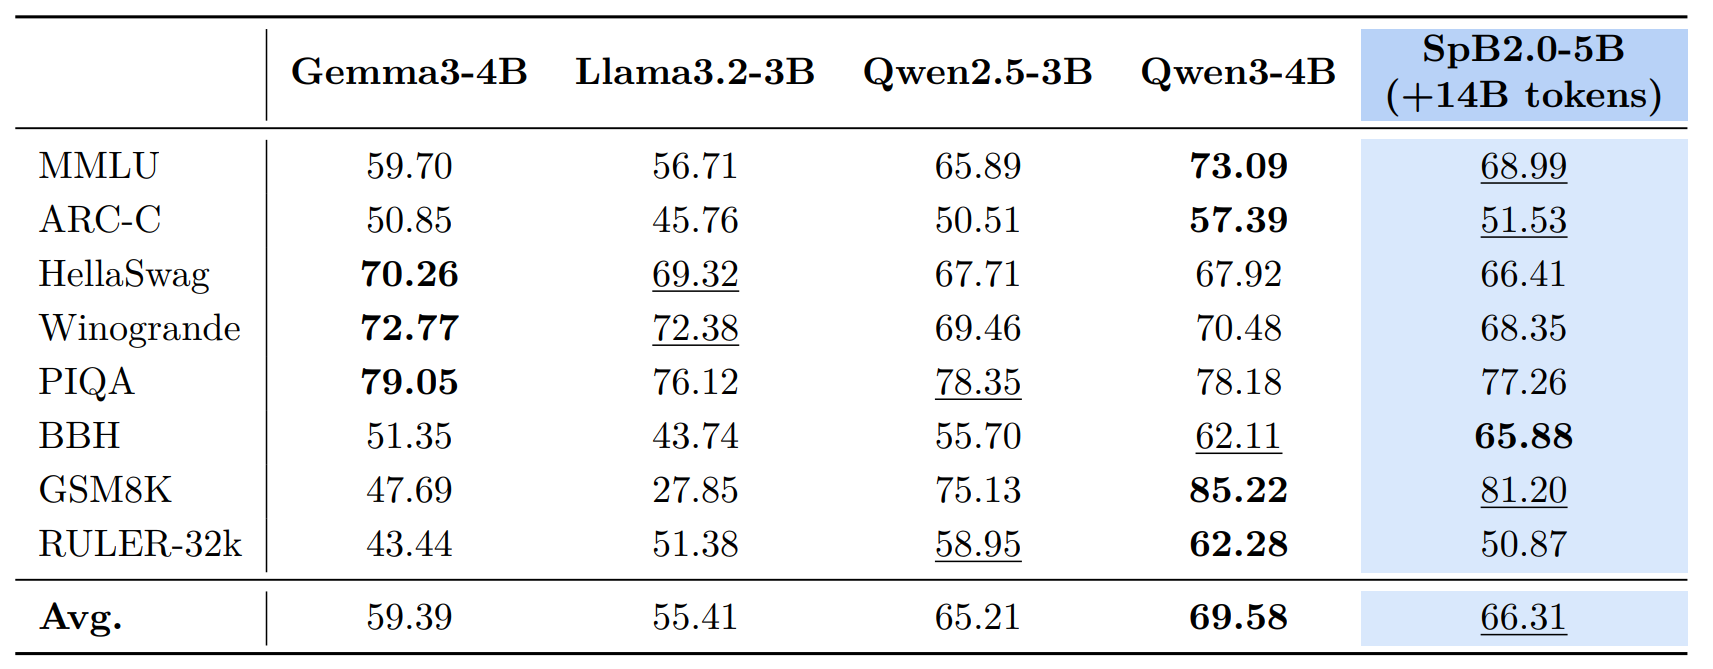
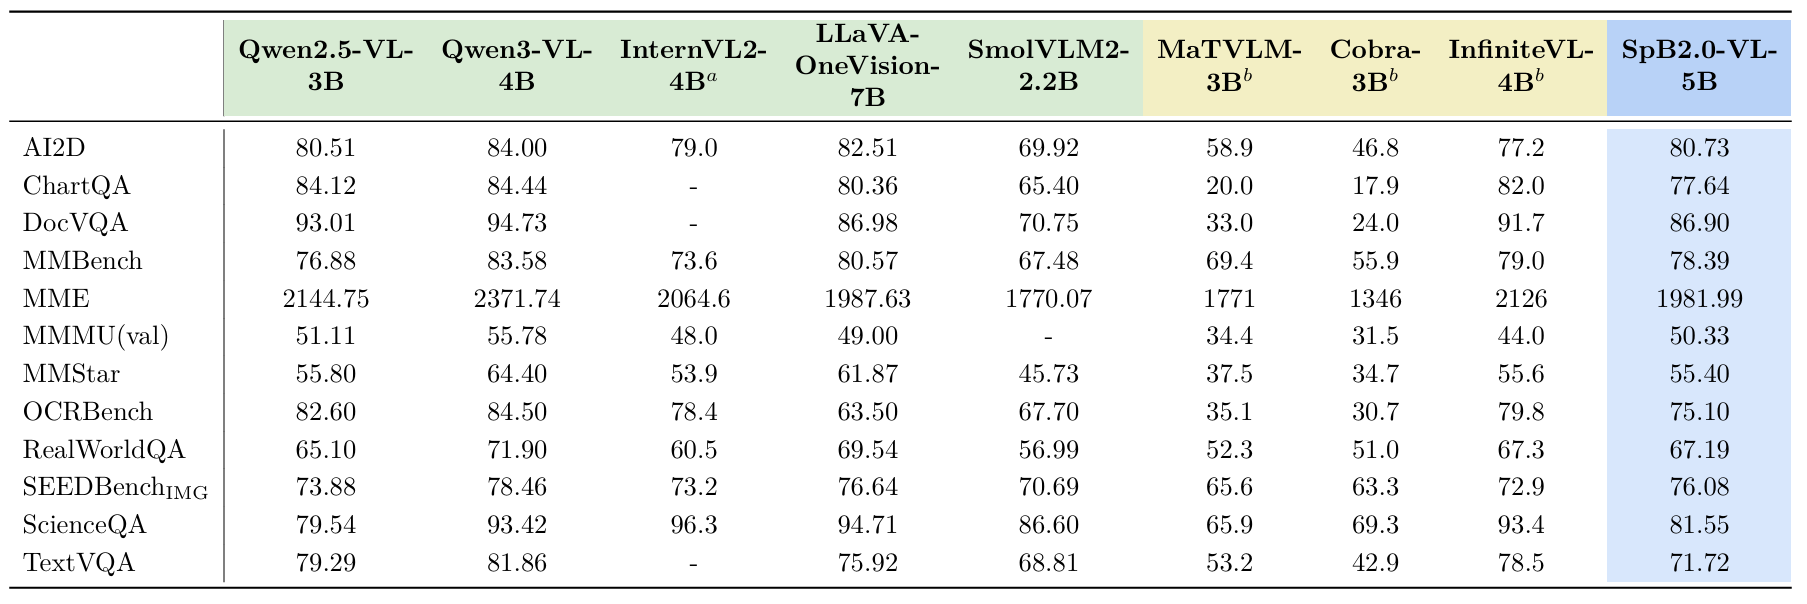
update readme

diff --git a/run_model/run_model_vllm_vl.py b/run_model/run_model_vllm_vl.py
@@ -17,7 +17,7 @@ def parse_args():
     parser.add_argument(
         "--image-path",
         type=str,
-        default="/mnt/jfzn/sbh/SpikeBrain-2.0-VL_real/88dcd17c04af9a0ce1fb51d6d5417636.png",
+        default="image.png",
         help="Input image path.",
     )
     parser.add_argument(
@@ -46,7 +46,7 @@ def import_plugin():
         return sse_swa_moba_vllm
     except ImportError:
         # Fallback for environments where editable install is not activated.
-        plugin_root = "/mnt/jfzn/zjh/vllm_for_sp2"
+        plugin_root = "SpikingBrain2.0/spb2_vllm"
         if plugin_root not in sys.path:
             sys.path.append(plugin_root)
         import sse_swa_moba_vllm  # type: ignore

diff --git a/run_model/run_model_hf_vl.py b/run_model/run_model_hf_vl.py
@@ -3,8 +3,8 @@ from PIL import Image
 from transformers import AutoModelForCausalLM, AutoProcessor
 
 
-MODEL_PATH = "/mnt/jfzn/sbh/SpikeBrain-2.0-VL_real/SpikeBrain-2.0-VL"
-IMAGE_PATH = "/mnt/jfzn/sbh/SpikeBrain-2.0-VL_real/88dcd17c04af9a0ce1fb51d6d5417636.png"
+MODEL_PATH = "SpikeBrain-2.0-VL"
+IMAGE_PATH = "image.png"
 QUESTION = "这张图主要说明了什么自然过程？请按顺序说明水是如何循环的。"
 DEVICE = "cuda"
 MAX_NEW_TOKENS = 256

diff --git a/README.md b/README.md
@@ -1,21 +1,16 @@
-# SpikingBrain2.0：Spiking Brain-inspired Large Models
+# SpikingBrain2.0：Brain-Inspired Foundation Models with Hybrid Sparse Attention, Dual Quantization Paths, and Multimodal Conversion
 
-📄 Technical Report: [English](SpikingBrain_Report_Eng.pdf)  
-🚀 Arxiv: [arXiv:2509.05276](https://www.arxiv.org/abs/2509.05276)  
+📄 Technical Report: [English]()  
+🚀 Arxiv: [arXiv:](https://www.arxiv.org/abs/)  
 🧩 Models: [Available Models](#available-models)      
 
 ---
 
 ## About SpikingBrain2.0
 
-SpikingBrain2.0 is a brain-inspired hybrid foundation model family for long-context language and vision-language modeling.
-
-Building on [SpikingBrain1.0](https://github.com/BICLab/SpikingBrain-7B), this repository includes both **SpikingBrain2.0** for language modeling and **SpikingBrain2.0-VL** for vision-language modeling. SpikingBrain2.0 adopts an inter-layer hybrid architecture that combines **Sparse Softmax Attention** ([MoBA](https://github.com/MoonshotAI/MoBA)) with **Sparse Linear Attention** ([SSE](https://openreview.net/pdf?id=R6DrJ4tnGV)), aiming to better balance modeling capability and computational efficiency while alleviating contextual memory interference in long sequences.
-
-To support efficient architecture migration, SpikingBrain2.0 is further built upon a lightweight Transformer-to-Hybrid conversion pipeline, enabling both LLMs and VLMs to be adapted from open-source Transformer backbones at very low cost. With fewer than **7k A100 GPU hours**, it recovers most of the backbone model’s capabilities and achieves competitive performance across general, reasoning, and multimodal benchmarks.
+SpikingBrain2.0 is a brain-inspired hybrid model family for long-context language modeling and vision-language modeling. Building on  [SpikingBrain1.0](https://github.com/BICLab/SpikingBrain-7B), it adopts an inter-layer hybrid architecture that combines Sparse Softmax Attention ([MoBA](https://github.com/MoonshotAI/MoBA)) with Sparse Linear Attention ([SSE](https://openreview.net/pdf?id=R6DrJ4tnGV)), forming a sparse-memory design that better balances modeling quality, long-context efficiency, and memory usage while alleviating contextual interference in long sequences. It is further supported by a lightweight Transformer-to-Hybrid (T2H) conversion pipeline, enabling both LLMs and VLMs to be adapted from open-source Qwen3 backbones at very low cost; With fewer than 7k A100 GPU hours, it recovers most of the backbone models’ capabilities and achieves competitive results across general, reasoning, and vision-language benchmarks. Beyond capability recovery, SpikingBrain2.0 delivers substantial deployment advantages, including up to 10.13× TTFT speedup at 4M context length, support for 10M+ token serving on 8×A100 GPUs, and dual FP8 and INT8-Spiking quantization paths for both practical GPU acceleration and neuromorphic-friendly execution. Notably, the INT8-Spiking path achieves 64.31% spike-sequence sparsity with minimal accuracy loss, while hardware simulation shows about 46.5%–48.1% power reduction, making SpikingBrain2.0 a lightweight, scalable, and energy-efficient solution for building efficient long-context foundation models.
 
 ![](assets/fig1.png)
-
 
 
 ## Repository Structure
@@ -27,6 +22,7 @@ SpikingBrain2.0/
 ├── spb2_vllm/                   # vLLM inference plugin adapted for both SpikingBrain2.0 LLM and SpikingBrain2.0-VL
 ├── flash-linear-attention_dev/  # Customized flash-linear-attention with SSE support
 ├── MoBA/                        # Customized MoBA adapted to the newer FlashAttention interface for Hugging Face
+├── run_model/                   # Example scripts for running models with the released checkpoints
 └── README.md
 ```
 
@@ -91,10 +87,38 @@ scipy
 flash-linear-attention_dev  # use the local version in this repo
 ```
 
-#### vLLM Usage
+## Available Models
 
-After installing the plugin and required dependencies, you can launch SpikingBrain2.0 with vLLM.
+Model weights are hosted on **ModelScope**:
 
+- [SpikingBrain-2.0-base-8k](https://www.modelscope.cn/models/Panyuqi/SpikingBrain-2.0-base-8k)
+- [SpikingBrain-2.0-base-64k](https://www.modelscope.cn/models/Panyuqi/SpikingBrain-2.0-base-64k)
+- [SpikingBrain-2.0-base-256k](https://www.modelscope.cn/models/Panyuqi/SpikingBrain-2.0-base-256k)
+- [SpikingBrain-2.0-base-512k](https://www.modelscope.cn/models/Panyuqi/SpikingBrain-2.0-base-512k)
+- [SpikingBrain-2.0-instruct](https://www.modelscope.cn/models/Panyuqi/SpikingBrain-2.0-instruct)
+- [SpikingBrain-2.0-think](https://www.modelscope.cn/models/Panyuqi/SpikingBrain-2.0-think)
+- [SpikingBrain-2.0-VL](https://www.modelscope.cn/models/zhongfangzhi/SpikeBrain-2.0-VL)
+
+### Usage
+
+Example scripts are provided in [`run_model/`](run_model) for running the released checkpoints.
+
+- **Hugging Face**  
+  Load the model with `AutoModelForCausalLM` and use it as a standard CausalLM for either forward passes or text generation; see [`run_model/run_model_hf_base.py`](run_model/run_model_hf_base.py).  
+  For the SFT model, use the chat template script; see [`run_model/run_model_hf_chat.py`](run_model/run_model_hf_chat.py).  
+  For the vision-language model, see [`run_model/run_model_hf_vl.py`](run_model/run_model_hf_vl.py).
+
+- **vLLM**  
+  Run inference with the provided **spb2_vllm** plugin; see [`run_model/run_model_vllm.py`](run_model/run_model_vllm.py) and [`run_model/run_model_vllm_vl.py`](run_model/run_model_vllm_vl.py).  
+  Before using vLLM, make sure to remove the `auto_map` field from `config.json`. Specifically, delete the following block if it is present:
+
+```json
+"auto_map": {
+  "AutoConfig": "configuration_sse_swa_moba.SSESWAMoBAConfig",
+  "AutoModelForCausalLM": "modeling_sse_swa_moba.SSESWAMoBAForCausalLM"
+}
+
+You can also launch a vLLM server directly from the terminal:
 ```bash
 vllm serve <your_model_path> \
   --served-model-name <model_name> \
@@ -109,31 +133,6 @@ vllm serve <your_model_path> \
   --port 8000 \
   --compilation-config '{"cudagraph_mode": "FULL_DECODE_ONLY"}'
 ```
-
-#### Configuration Note for vLLM
-
-Please remove the `auto_map` field from `config.json` before launching with vLLM.
-
-Delete the following block if it is present:
-
-```json
-"auto_map": {
-  "AutoConfig": "configuration_sse_swa_moba.SSESWAMoBAConfig",
-  "AutoModelForCausalLM": "modeling_sse_swa_moba.SSESWAMoBAForCausalLM"
-}
-```
-
-## Available Models
-
-Model weights are hosted on **ModelScope**:
-
-- [SpikingBrain-2.0-base-8k](https://www.modelscope.cn/models/Panyuqi/SpikingBrain-2.0-base-8k)
-- [SpikingBrain-2.0-base-64k](https://www.modelscope.cn/models/Panyuqi/SpikingBrain-2.0-base-64k)
-- [SpikingBrain-2.0-base-256k](https://www.modelscope.cn/models/Panyuqi/SpikingBrain-2.0-base-256k)
-- [SpikingBrain-2.0-base-512k](https://www.modelscope.cn/models/Panyuqi/SpikingBrain-2.0-base-512k)
-- [SpikingBrain-2.0-instruct](https://www.modelscope.cn/models/Panyuqi/SpikingBrain-2.0-instruct)
-- [SpikingBrain-2.0-think](https://www.modelscope.cn/models/Panyuqi/SpikingBrain-2.0-think)
-- [SpikingBrain-2.0-VL](https://www.modelscope.cn/models/zhongfangzhi/SpikeBrain-2.0-VL)
 
 
 ## Citation
